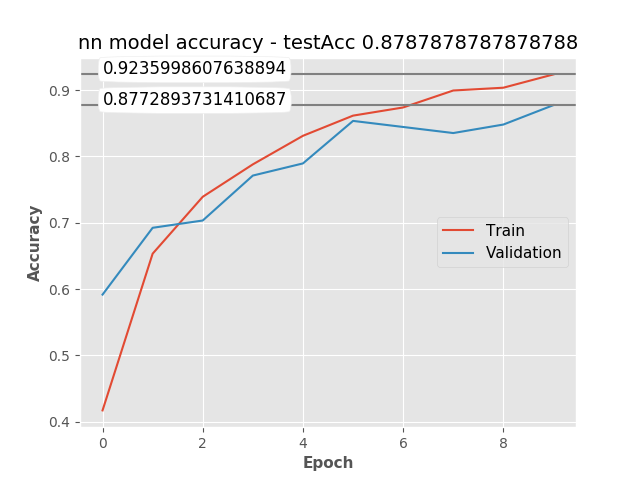
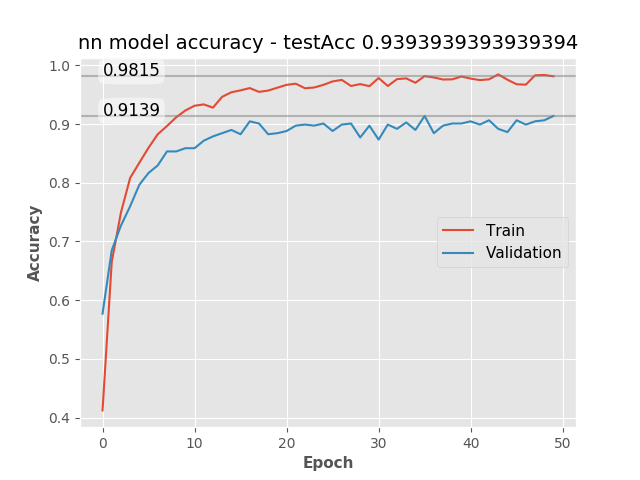
small changes and first reports

diff --git a/src/after.py b/src/after.py
@@ -11,10 +11,10 @@ def plotAll(history, score, epochs: int, name: str):
     plt.plot(history.history['acc'])
     plt.plot(history.history['val_acc'])
 
-    plt.axhline(y=accLast, color='grey')
-    plt.annotate(accLast, xy=(0, accLast), bbox=dict(boxstyle="round4", fc="w"))
-    plt.axhline(y=valAccLast, color='grey')
-    plt.annotate(valAccLast, xy=(0, valAccLast), bbox=dict(boxstyle="round4", fc="w"))
+    plt.axhline(y=accLast, color='grey', alpha=0.5)
+    plt.annotate("{0:.4f}".format(accLast), xy=(0, accLast), bbox=dict(boxstyle="round4", fc="w", alpha=0.5))
+    plt.axhline(y=valAccLast, color='grey', alpha=0.5)
+    plt.annotate("{0:.4f}".format(valAccLast), xy=(int(epochs/5), valAccLast), bbox=dict(boxstyle="round4", fc="w", alpha=0.5))
 
     plt.title('{} model accuracy - testAcc {}'.format(name, score[1]))
     plt.ylabel('Accuracy')
@@ -31,10 +31,10 @@ def plotAll(history, score, epochs: int, name: str):
     plt.plot(history.history['loss'])
     plt.plot(history.history['val_loss'])
 
-    plt.axhline(y=lossLast, color='grey')
-    plt.annotate(lossLast, xy=(0, lossLast), bbox=dict(boxstyle="round4", fc="w"))
-    plt.axhline(y=valLossLast, color='grey')
-    plt.annotate(valLossLast, xy=(0, valLossLast), bbox=dict(boxstyle="round4", fc="w"))
+    plt.axhline(y=lossLast, color='grey', alpha=0.5)
+    plt.annotate("{0:.4f}".format(lossLast), xy=(0, lossLast), bbox=dict(boxstyle="round4", fc="w", alpha=0.5))
+    plt.axhline(y=valLossLast, color='grey', alpha=0.5)
+    plt.annotate("{0:.4f}".format(valLossLast), xy=(int(epochs/5), valLossLast), bbox=dict(boxstyle="round4", fc="w", alpha=0.5))
 
     plt.title('{} model loss - testLoss {}'.format(name, score[0]))
     plt.ylabel('Loss')

diff --git a/src/cnn.py b/src/cnn.py
@@ -1,3 +1,5 @@
+import os
+
 import after
 import pre
 import keras
@@ -18,7 +20,7 @@ train_waves, train_labels, test_waves, test_labels = \
 
 batch_size = 250
 num_classes = 10
-epochs = 10
+epochs = 25
 
 print(train_waves[0].shape)
 print(train_waves.shape, train_labels.shape)

diff --git a/src/cnn_v3.py b/src/cnn_v3.py
@@ -20,7 +20,7 @@ train_waves, train_labels, test_waves, test_labels = \
 
 batch_size = 250
 num_classes = 10
-epochs = 10
+epochs = 50
 
 print(train_waves[0].shape)
 print(train_waves.shape, train_labels.shape)
